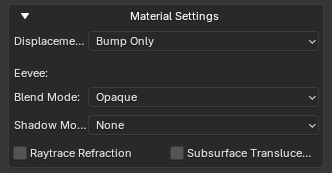
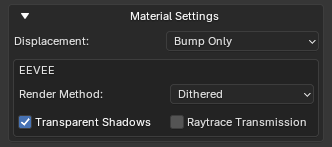
Updates

diff --git a/docs/utilities.md b/docs/utilities.md
@@ -23,7 +23,7 @@ BatchGenie offers a range of utilities to efficiently manage materials and other
 
 This utility enables you to batch modify attributes across multiple materials. It’s useful for making consistent adjustments to properties like roughness, metallic, or any other material attribute.
 
-![Change Attributes](images/utility_change_attribute.png){ .img-box align=left }
+![Change Node Attributes Utility](images/utility_change_attribute.png){ .img-box align=left }
 
 <h5>Settings</h5>
 
@@ -34,7 +34,7 @@ This utility enables you to batch modify attributes across multiple materials. I
 - **Target**: Specify which node inside the material to target. Refer to the options listed below for details.
 
 === "Shader Node"
-    ![Change Node Attributes Shader Node](images/utility_change_attribute_shader.png){ .img-box align=left}
+    ![Change Node Attributes Shader Node](images/utility_change_attribute_shader.png){ .img-box align=left }
     Targets the main shader connected to the 'Material Output' inside the material. This can be any type of shader or a custom Node-Group.
 
     <div style="clear:both"></div>
@@ -63,7 +63,7 @@ This utility enables you to batch modify attributes across multiple materials. I
       - **Projection**
       - **Extension**
 
-    For further technical details about texture Interpolation, Projection & Extension see the [this section](https://docs.blender.org/manual/en/latest/render/shader_nodes/textures/image.html){ target="_blank" } in the Blender manual.
+    *For further technical details about texture Interpolation, Projection & Extension see the [this section](https://docs.blender.org/manual/en/latest/render/shader_nodes/textures/image.html){ target="_blank" } in the Blender manual.*
 
 === "Displacement Node"
     ![Change Node Attributes Displacement Node](images/utility_change_attribute_displacement.png){ align=left .img-box }
@@ -111,7 +111,7 @@ This utility enables you to batch modify attributes across multiple materials. I
 
 This utility enables you to batch modify material settings across materials.
 
-![Change Material Settings](images/utility_change_material_settings.png){ align=left .img-box }
+![Change Material Settings Utility](images/utility_change_material_settings.png){ align=left .img-box }
 
 <h5>Settings</h5>
 
@@ -121,10 +121,11 @@ This utility enables you to batch modify material settings across materials.
     - **Materials on Selected Objects**
 - **Setting**:
     - **Displacement Type**
-    - **Eevee Blend Mode**
-    - **Eevee Shadow Mode**
-    - **Eevee Raytrace Refraction**
-    - **Eevee Subsurface Translucency**
+    - **Eevee Backface Culling**
+    - **Eevee Transparent Shadows**
+    - **Eevee Render Method**
+    - **Eevee Raytrace Transmission**
+    - **Eevee Thickness**
     - **Viewport Display Color**: Set the 'Viewport Display Color' of the material to match the 'Base Color' attribute of the main shader.
 
 
@@ -141,7 +142,7 @@ This utility lets you replace existing 'Shader Editor' nodes with custom Node-Gr
 *This utility is also available in the "Shader Editor" for processing individual nodes rather than in batch. See [this section](#replace-node) for details.*
 
 
-![Replace Shader Nodes](images/utility_replace_shader_nodes.png){ .img-box align=left }
+![Replace Shader Nodes Utility](images/utility_replace_shader_nodes.png){ .img-box align=left }
 
 <h5>Settings</h5>
 
@@ -166,7 +167,7 @@ This utility lets you replace existing 'Shader Editor' nodes with custom Node-Gr
 
 This utility helps you locate materials with unconnected nodes in your file, such as Image Texture nodes.
 
-![Find Unconnected Nodes](images/utility_find_unconnected_nodes.png){ .img-box align=left }
+![Find Unconnected Nodes Utility](images/utility_find_unconnected_nodes.png){ .img-box align=left }
 
 <h5>Settings</h5>
 
@@ -233,7 +234,7 @@ This feature searches for nodes with critical values set to zero, which may nega
 
 *This utility is also available in the "Shader Editor" for processing individual materials rather than in batch. See [this section](#find-zero-strength-nodes-shader-editor) for details.*
 
-![Find Zero Strength Nodes](images/utility_find_zero_strength_nodes.png){ .img-box align=left }
+![Find Zero Strength Nodes Utility](images/utility_find_zero_strength_nodes.png){ .img-box align=left }
 
 <h5>Settings</h5>
 
@@ -283,7 +284,7 @@ After clicking `Search`, the interface will display a list of all found material
 
 This utility verifies that the image textures within materials in your file are using the correct color space settings, generates reports on its findings, and provides an option to automatically fix any issues.
 
-![Color Space Validator](images/utility_color_space_validator.png){ .img-box align=left }
+![Color Space Validator Utility](images/utility_color_space_validator.png){ .img-box align=left }
 
 <h5>Settings</h5>
 
@@ -343,7 +344,7 @@ After clicking `Search`, the interface will display a list of all materials with
 
 While not an all-encompassing renaming tool, this function provides targeted assistance for a few specific use cases. It includes options for aligning mesh names with object names and syncing image names with their file names, making it particularly useful when dealing imported Assets that have inconsistent naming conventions.
 
-![Batch Rename](images/utility_batch_rename.png){ .img-box align=left }
+![Batch Rename Utility](images/utility_batch_rename.png){ .img-box align=left }
 
 <h5>Options</h5>
 - **Set Mesh names same as Object names**
@@ -354,13 +355,13 @@ While not an all-encompassing renaming tool, this function provides targeted ass
 ??? abstract "Examples"
     **Set Mesh names same as Object names**:
 
-    ![Batch Rename Mesh Example](images/utility_batch_rename_mesh_example.gif){ .img-box  }
+    ![Batch Rename Mesh Example](images/utility_batch_rename_mesh_example.gif){ .img-box }
 
     **Set Image names same as the Image File names**:
 
     **Use Case:** You imported external models, and all texture names are generic like 'color map', 'roughness map', and 'normal map', making it difficult to track them. This feature solves the issue by renaming image names in Blender to match the actual file names. For example, instead of 'color map', it could be 'Bark_2K_BaseColor'.
 
-    ![Batch Rename Texture Example](images/utility_batch_rename_texture_example.gif){ .img-box  }
+    ![Batch Rename Texture Example](images/utility_batch_rename_texture_example.gif){ .img-box }
 
 
 ---
@@ -372,7 +373,7 @@ While not an all-encompassing renaming tool, this function provides targeted ass
 
 If you have edited any of your textures externally and the changes are not visible in Blender, use this utility to reload all images in your your file.
 
-![Reload Images](images/utility_reload_images.png){ .img-box  }
+![Reload Images Utility](images/utility_reload_images.png){ .img-box }
 
 
 ---
@@ -389,7 +390,7 @@ Helps delete any temporary files that might be left behind by BatchGenie. There 
 2. **Removing Extra Info Nodes**: If you want to remove any extra info nodes created inside your materials by BatchGenie. See the 'Info' box below for details.
 
 
-![Clean File](images/utility_clean_file.png){ .img-box align=left }
+![Clean File Utility](images/utility_clean_file.png){ .img-box align=left }
 
 <h5>Settings</h5>
 
@@ -410,11 +411,11 @@ Helps delete any temporary files that might be left behind by BatchGenie. There 
 
 > Location: Asset Browser ▸ BatchGenie Menu
 
-![Asset Tags](images/utilities_asset_browser.png){ .img-box align=right }
+![Asset Tags Utility](images/utilities_asset_browser.png){ .img-box align=right }
 
 Add or remove tags from your Assets. Select any number of Assets of any type, choose the desired tags to add, and BatchGenie will assign them to the appropriate Assets. These can be either regular tags or Smart Tags that apply the property of your choice to the Asset.
 
-This feature works with both internal and external assets, so you don't have to open each individual Asset Blend file separately.
+This feature works with both internal and external Assets, so you don't have to open each individual Asset Blend file separately.
 
 <div style="clear:both"></div>
 
@@ -424,7 +425,7 @@ This feature works with both internal and external assets, so you don't have to 
     ![Tag - Default or Copy Tag](images/utility_asset_browser_tag_default.gif){ .img-box align=left }
 
     - **New Tag**: Creates a regular tag.
-    - **Copy from existing tags**: Lets you pick from a dropdown menu containing all tags from the currently selected Assets. Tags that are present in all of the selected assets are filtered out (since it wouldn't make sense to apply a tag that is already there).
+    - **Copy from existing tags**: Lets you pick from a dropdown menu containing all tags from the currently selected Assets. Tags that are present in all of the selected Assets are filtered out (since it wouldn't make sense to apply a tag that is already there).
 
 === "Object Triangles"
     ![Tag - Object Triangles](images/utility_asset_browser_tag_object_triangles.gif){ .img-box align=left }
@@ -465,9 +466,9 @@ The split function reverses this, separating combined tags that follow the exact
 === "Existing"
     ![Tag - Object Triangles](images/utility_asset_browser_remove_tags_existing.png){ .img-box align=left }
 
-    Displays all tags from the currently selected assets in the Asset Browser in a dropdown menu, allowing you to choose which tags to remove.
+    Displays all tags from the currently selected Assets in the Asset Browser in a dropdown menu, allowing you to choose which tags to remove.
 
-    You also have filtering options to only show common tags from the selected assets, as well as an "Exclude common" option to exclude these tags.
+    You also have filtering options to only show common tags from the selected Assets, as well as an "Exclude common" option to exclude these tags.
 
 === "Keyword"
     ![Tag - Object Triangles](images/utility_asset_browser_remove_tags_keyword.png){ .img-box align=left }
@@ -492,9 +493,9 @@ The split function reverses this, separating combined tags that follow the exact
 
 Batch add metadata for your Assets: Description, License, Copyright, and Author. You can select and edit one or multiple attributes simultaneously. This feature works with both internal and external assets, so you don't have to open each individual Asset Blend file separately.
 
-If a single asset is selected, you can use the "Retrieve from Selected Asset" button to load its existing metadata for editing.
+If a single Asset is selected, you can use the "Retrieve from Selected Asset" button to load its existing metadata for editing.
 
-![Metadata](images/utility_asset_browser_metadata.png){ .img-box align=left }
+![Metadata Utility](images/utility_asset_browser_metadata.png){ .img-box align=left }
 
 !!! tip "Tip"
     You can also access the Metadata menu through the right-click menu in the Asset Browser.
@@ -513,7 +514,7 @@ Move Assets to different Asset Catalogs to help you organize your Asset Library.
 
 The 'Catalog Details' section displays the UUID and the Asset Library Path of the chosen Catalog.
 
-![Move Assets](images/utility_move_assets.png){ .img-box align=left }
+![Move Assets Utility](images/utility_move_assets.png){ .img-box align=left }
 
 ![Move Assets Catalog Example](images/utility_move_assets_catalog_example.png){ .img-box align=left }
 
@@ -535,7 +536,7 @@ The 'Catalog Details' section displays the UUID and the Asset Library Path of th
 
 This utility offers similar functionality to the [Replace Shader Nodes](#replace-shader-nodes) utility but is designed for processing individual nodes rather than batch adjustments. It also allows you to replace any type of node, not just the main shader node as in the main utility.
 
-![Replace Node](images/utility_shader_editor_replace_node.gif){ .img-box align=left }
+![Replace Node Utility](images/utility_shader_editor_replace_node.gif){ .img-box align=left }
 
 <h5>Settings</h5>
 
@@ -556,7 +557,7 @@ This utility offers similar functionality to the [Replace Shader Nodes](#replace
 
 This utility offers the same functionality as the [Find Zero Strength Nodes](#find-zero-strength-nodes) utility but is designed for processing individual materials rather than batch adjustments.
 
-![Replace Node](images/utility_shader_editor_find_zero_strength_nodes.png){ .img-box align=left }
+![Find Zero Strength Nodes Utility](images/utility_shader_editor_find_zero_strength_nodes.png){ .img-box align=left }
 
 <h5>Settings</h5>
 

diff --git a/docs/rendering_asset_previews.md b/docs/rendering_asset_previews.md
@@ -4,7 +4,7 @@ tags:
 ---
 When it comes to rendering Asset Preview images, you have two distinct options. You can either utilize Batch Rendering through the BatchGenie panel, or selectively choose Assets from the Asset Browser for which you wish to render previews for. BatchGenie supports rendering previews for materials, collections, and objects, including VDB volumes.
 
-When rendering via the Asset Browser, you can work with both internal and external assets, so you don't have to open each individual Asset Blend file separately.
+When rendering via the Asset Browser, you can work with both internal and external Assets, so you don't have to open each individual Asset Blend file separately.
 
 
 ## Batch Rendering
@@ -103,7 +103,9 @@ You can access the settings through both the BatchGenie panel and the BatchGenie
 
         ![Light Presets](images/render_asset_previews_lighting_presets.png){ .img-box .on-glb }
 
-- **Studio Preset**: Allows you to add a studio backdrop as a background if desired.
+- **Studio Preset**: Allows you to add a studio backdrop as a background if desired. The backdrop automatically scales to fit the object you are rendering, ensuring that the background matches your asset's size and position.
+
+    *Note: Studio Presets are not recommended to be used when rendering VDB volumes. The placement of VDB volumes within the studio backdrop can be finicky and may not always work as planned.*
 
     ??? abstract "Studio Presets Example"
         This popup is shown when clicking on the Studio Preset icon.
@@ -113,18 +115,19 @@ You can access the settings through both the BatchGenie panel and the BatchGenie
     ??? info2 "Studio Settings"
         When you select a Studio Preset, the following settings are available:
 
-        ![Studio Settings](images/render_asset_previews_studio_settings.png){ .img-box }
+        ![Studio Settings](images/render_asset_previews_studio_settings.png){ .img-box align=left }
 
-        Settings to customize the backdrop:
+        <div style="clear:both"></div>
 
-        - **Material**: Use either the default material, with adjustable color and roughness, or choose your own material.
+        - **Material**: Choose from the built-in materials, which include some basic options with adjustable settings, or use your own material.
         - **Transparent Backdrop**: *(Cycles Only)* Makes the studio backdrop see-through while remaining visible in reflections and bouncing back light to the objects.
-        - **Backdrop passes light**: *(Cycles Only)* Enables the backdrop to allow light to pass through it, preventing it from blocking light from world lights.
+        - **Backdrop passes light**: Enables the backdrop to allow light to pass through it, preventing it from blocking light from world lights.
 
-- **Transparent Background**: Enables a transparent background in rendered images
+        - **Object Z Offset**: Allows you to adjust the object's height after its lowest point has been aligned with the ground. Use a positive value to lift the object above the ground or a negative value to lower it further.
 
 <div style="clear:both"></div>
 
+- **Transparent Background**: Enables a transparent background in rendered images by toggling the 'Render > Film > Transparent' option for the render scene.
 - **Strength**: Adjusts the light strength of the world background.
 - **Saturation**: Adjusts the saturation of the world background. This setting is useful when you want to use an HDR image for lighting your scene but don't want the colors of the HDR to influence the colors in your final render. By adjusting the saturation, you can desaturate the HDR image, allowing you to retain the lighting effects without the HDR's color affecting your scene's appearance.
 
@@ -159,7 +162,9 @@ You can access the settings through both the BatchGenie panel and the BatchGenie
         - **View**: Set the render camera to match the current 3D view's perspective, ensuring the render viewpoint aligns with the 3D viewport
         - **Active Camera**: Set the render camera to the position and orientation of the active camera, ensuring the render viewpoint matches the current active camera's view.
 
-        When using override you also have the **Autoframe** option available that automatically adjusts the camera to frame the selected object perfectly, ensuring that it fits within the view without any clipping. Disable this option for manual framing of your Asset, such as for close-up shots.
+        **Autoframe**: When using the override, the **Autoframe** option automatically adjusts the camera to frame the selected object perfectly, ensuring that it fits within the view without any clipping. Disable this option for manual framing of your Asset, such as for close-up shots.
+
+        *Note: Autoframe cannot be disabled when rendering materials. However, you can still render selected Assets, and Autoframe will be disabled for all other elements except materials.*
 
 - **Material Preview Object**:
 
@@ -215,7 +220,7 @@ Here, you'll find settings for the render engine, aspect ratio, resolution, and 
 
 `Can I add custom Light Presets?`
 
-:   Yes! The list can be expanded by directly adding your own HDRIs to blender via `Preferences > Lights > HDRI's` which makes them available in this list.
+:   Yes! The list can be expanded by directly adding your own HDRIs to Blender via `Preferences > Lights > HDRI's` which makes them available in this list.
 
 `I'm having slow rendering speeds in Cycles. What can I do?`
 
@@ -224,6 +229,10 @@ Here, you'll find settings for the render engine, aspect ratio, resolution, and 
     - Decrease the light paths under `Render > Light Paths`.
     - For volumes/VDB rendering, check `Render > Volumes` and adjust the `Step Rate Render` and `Max Steps`. Increasing the `Step Rate Render` can significantly speed up renders. For Asset Previews, setting `Step Rate Render` to 5 or higher can halve render times compared to the default 1, without losing visible detail at that scale. If you're rendering for external use, you may need to balance the minor loss in detail against the improved speed.
     - If using **Adaptive Subdivision** for models, adjust the `Dicing Rate Render` in your scene. Ensure the "Experimental" Feature Set is enabled under `Render > Feature Set`. Then, increase the `Dicing Rate Render` value under `Render > Subdivision`.
+
+`I'm experiencing unusual behavior with object location when using the Studio Setups. What should I do?`
+
+:   Try applying the Scale and Rotation transformations to your object(s). This should resolve the issue.
 
 
 ## More adjustments in Preferences {#more-settings data-search-exclude}

diff --git a/docs/index.md b/docs/index.md
@@ -11,7 +11,7 @@ Welcome to BatchGenie, an add-on designed to simplify and automate common Asset 
 ### Feature Details
 
 - Easy one-click interface for instant use, while offering advanced customization options.
-- Both rendering and all utilities work with local and external assets, so you don't have to open each asset file individually when working with them.
+- Both rendering and all utilities work with local and external Assets, so you don't have to open each Asset file individually when working with them.
 
 - **Texture Import**:
     - Blazingly fast imports.
@@ -43,9 +43,9 @@ Welcome to BatchGenie, an add-on designed to simplify and automate common Asset 
     - Find Zero Strength Nodes: Search for Normal Map, Bump, and Displacement nodes with zero values, potentially affecting material appearance.
     - Color Space Validator: Verifies image textures for correct color space settings, with an option to automatically fix any issues
     - Reload Images: Update externally edited images in Blender, ensuring they refresh correctly.
-    - Tagging Utilities: Easily add and remove tags for Assets in the Asset Browser. The Smart Tag feature lets you choose to add tags like dimensions, triangle and vertex counts, and texture resolution, offering detailed asset information.
+    - Tagging Utilities: Easily add and remove tags for Assets in the Asset Browser. The Smart Tag feature lets you choose to add tags like dimensions, triangle and vertex counts, and texture resolution, offering detailed Asset information.
     - Metadata Adjustment: Easily adjust metadata in the Asset Browser, allowing batch additions of description, license, copyright, and author.
-    - Move Asset: Organize your assets efficiently by moving them to the correct Asset Catalogs with a single click, without having to open each individual Asset Blend file.
+    - Move Asset: Organize your Assets efficiently by moving them to the correct Asset Catalogs with a single click, without having to open each individual Asset Blend file.
     - Plus a few other small utilities!
 
 
@@ -64,7 +64,7 @@ You can buy the add-on in the following stores:
 
 ## Future Updates
 
-My priority is ensuring compatibility with Blender's Long-Term Support (LTS) releases, but I will also strive to maintain functionality with other Blender updates whenever possible. For details on the current version, check the [Changelog](changelog.md).
+My priority is ensuring compatibility with Blender's Long-Term Support (LTS) releases, but I will also strive to maintain functionality with other Blender updates whenever possible. Additionally, I have planned features and utilities that will be added in future updates to enhance the capabilities. For details on the current version, check the [Changelog](changelog.md).
 
 
 ## Support and Feedback

diff --git a/docs/importing_textures.md b/docs/importing_textures.md
@@ -7,7 +7,7 @@
 5. Click on `Import`, and BatchGenie will automatically import and set up the textures for you.
 
 <figure markdown="span">
-  ![Example Import With Extra Everything](images/imported_material_example.png){ .on-glb width=60% .img-box data-title="Example of an import with various additional accessory nodes." data-description="These nodes are automatically added by BatchGenie when needed, such as converting normals and performing other necessary adjustments."}
+  ![Example Import With Extra Everything](images/imported_material_example.png){ .img-box .on-glb width=60% data-title="Example of an import with various additional accessory nodes." data-description="These nodes are automatically added by BatchGenie when needed, such as converting normals and performing other necessary adjustments."}
   <figcaption>Example of an import with various additional accessory nodes.</figcaption>
 </figure>
 
@@ -59,17 +59,17 @@
 
 ![Import Material Settings](images/import_material_settings.png){ .img-box align=left }
 
-- **Displacement**: Sets the displacement setting of the imported materials. Choose 'Bump Only' for surface texture simulation, 'Displacement' for actual geometric displacement, or 'Displacement & Bump' for a combination of both effects.
+- **Displacement**: Sets the displacement setting of the imported materials. Choose `Bump Only` for surface texture simulation, `Displacement` for actual geometric displacement, or `Displacement & Bump` for a combination of both effects.
 
- - Eevee Specific Settings: These settings reflect Blender's defaults Eevee specific settings, such as: Transparent Shadows, Render Method, Raytraced Transmission.
+ - Eevee Specific Settings:
+    - Render Method
+    - Transparent Shadows
+    - Raytrace Transmission
 
-    For further technical details see [this section](https://docs.blender.org/manual/en/4.2/render/eevee/material_settings.html){ target="_blank" } in the blender manual.
+    *For further technical details see [this section](https://docs.blender.org/manual/en/4.2/render/eevee/material_settings.html){ target="_blank" } in the Blender manual.*
 
 
-<!-- - **Blend Mode**: Controls how the material interacts with lighting and transparency, offering options for different blending effects.
-- **Shadow Mode**: Determines how shadows are cast and rendered for the object, providing control over shadow interaction.
-- **Raytrace Refraction**: Controls how refraction is handled for the material.
-- **Subsurface Translucency**: Controls the appearance of light passing through the surface, simulating translucent materials such as skin or wax. -->
+---
 
 
 #### Image Texture Node Settings
